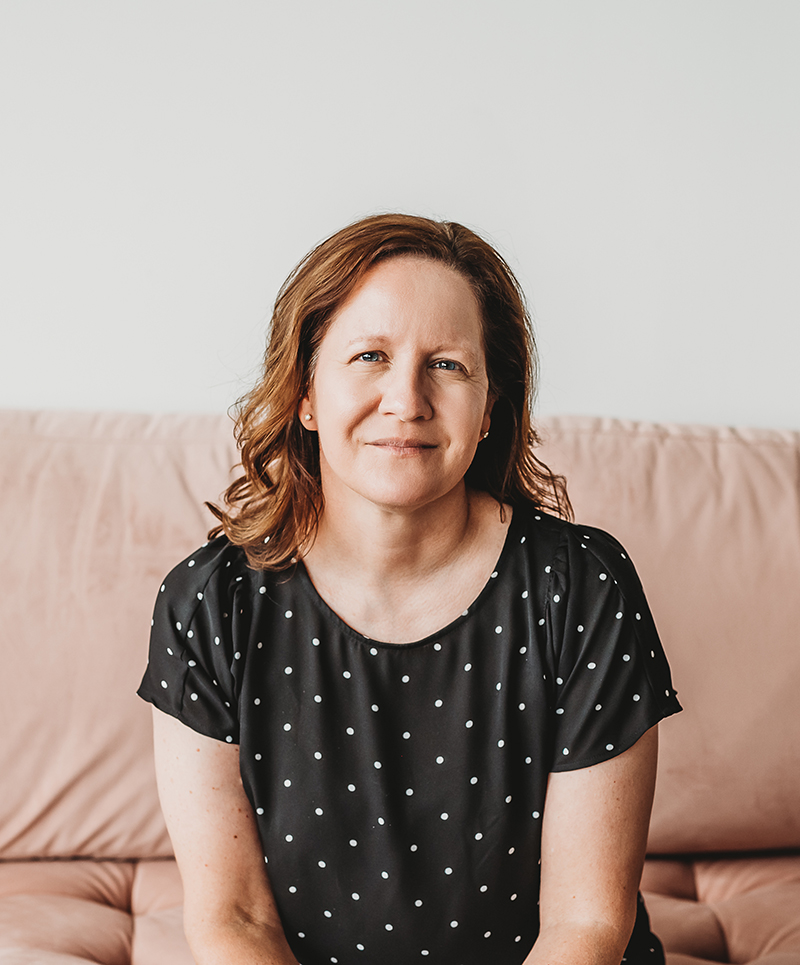
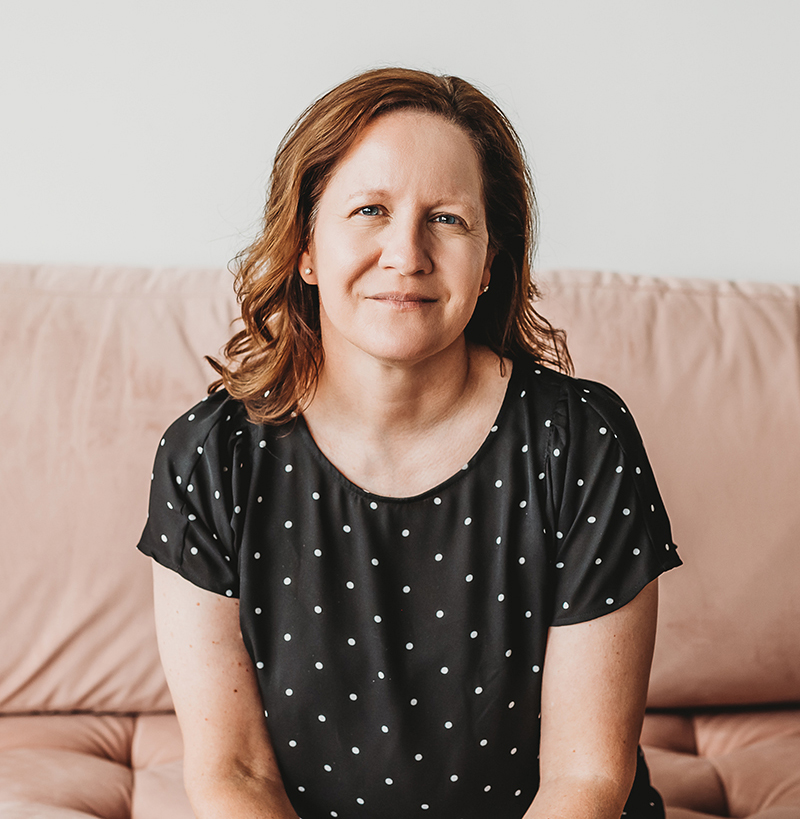
final commit

diff --git a/index.html b/index.html
@@ -57,37 +57,30 @@
     
     <header id="home-section" class="d-flex justify-content-center">
       <div class="container home-container d-flex align-items-center justify-content-center">
-        <div class="container home-inner-container d-flex align-items-center">
-          <div class="row align-items-center">
-            <div class="col-md-6 pt-4">
+        <div class="container home-inner-container d-flex align-items-center justify-content-center">
+          <div class="row d-flex align-items-center justify-content-center">
+            <div class="col align-items-center justify-content-center">
               <h1 class="">Jackie Jones</h1>
               <h4 class="">Web Developer & Designer</h4>
-              <a class="btn" href="#about-section" role="button">Learn a little more about me 
-                <i class="fa fa-arrow-circle-down mx-2"></i>
+              <a class="btn d-flex justify-content-center" href="#about-section" role="button">Learn a little more about me 
+                <i class="fa fa-arrow-circle-down mx-3 my-1"></i>
               </a>
-            </div>
-            <div class="col-md-5">
-              <img
-                  src="img/header-image2.jpg"
+              <div class="icons d-flex align-items-center justify-content-center p-5">
+                <a href="https://www.linkedin.com/in/jacqueline-jones-0881ab1a3/" target="_blank">
+                  <img
+                  src="img/linkedin-icon-brown.png"
                   alt=""
-                  class="img-fluid mb-3 thumbnail"
-                />
-            </div>
-            <div class="col-md-1 align-self-start">
-              <a href="https://www.linkedin.com/in/jacqueline-jones-0881ab1a3/" target="_blank">
-                <img
-                src="img/linkedin-icon-brown.png"
-                alt=""
-                class="img-fluid mb-3 thumbnail"
-                />
-              </a>
-              <a href="https://github.com/jackiejones3bb" target="_blank">
-                <img
-                src="img/github-icon-brown.png"
-                alt=""
-                class="img-fluid mb-3 thumbnail"
-                />
-              </a>
+                  class="img-fluid p-1 thumbnail"
+                  />
+                </a>
+                <a href="https://github.com/jackiejones3bb" target="_blank">
+                  <img
+                  src="img/github-icon-brown.png"
+                  alt=""
+                  class="img-fluid p-1 thumbnail"
+                  />
+                </a>
+              </div>
             </div>
           </div>
         </div>
@@ -102,16 +95,16 @@
           <div class="row p-5 my-2">
             <div class="col-md">
               <img
-                src="img/home-hero-image3.jpg"
+                src="img/header-image2.jpg"
                 alt=""
-                class="img-fluid mb-3 thumbnail"
+                class="img-fluid pr-2 mb-3 thumbnail"
               />
             </div>
             <div class="col-md">
               <h2>About Me</h2>
               <hr>
-              <p>
-                Hi, I'm Jackie, a web developer/designer and graphic artist with a passion for helping people. And I'm ridiculously detail-oriented. I spent the early part of my career working mainly in the realm of product packaging design before moving into a role of marketing specialist. But, after a while, I just wasn't feeling my corporate career anymore and my heart called me in a different direction. <br><br>I wanted to save the world...that's an attainable goal, right? So, I went to nursing school and spent 10+ years working as an oncology nurse alongside some of the most amazing doctors, coworkers, and patients. I learned so much and am beyond grateful for my time as an RN becasue it helped to shape the person that I am today. <br><br>I missed being a designer and the creative problem-solving that came with it. I made the decison to transition back into a design-based career, and being the perpetual learner that I am, I focused on increasing my technical skills and abilities in web development. This is a journey that quite literally come full circle for me and I'm excited to be back to doing what I love. 
+              <p class="about-text">
+                Hi, I'm Jackie, a web developer/designer and graphic artist with a passion for helping people...and I'm ridiculously detail-oriented. I spent the early part of my career working mainly in the realm of product packaging design before moving into a role as a marketing specialist. But, after a while, I just wasn't feeling my corporate career anymore and my heart called me in a different direction. <br><br>I wanted to save the world...that's an attainable goal, right? So, I went to nursing school and spent 10+ years working as an oncology nurse alongside some of the most amazing doctors, coworkers, and patients. I learned so much and am beyond grateful for my time as an RN becasue it helped to shape the person that I am today. <br><br>I missed being a designer and the creative problem-solving that came with it. I made the decison to transition back into a design-based career, and being the perpetual learner that I am, I focused on increasing my technical skills and abilities in web development. This is a journey that has quite literally come full circle for me and I'm excited to be back to doing what I love. 
               </p>
               </div>
             </div>
@@ -129,7 +122,7 @@
           <div class="col-md">
             <h2>My Skills</h2>
             <hr>
-            <p>
+            <p class="skills-text">
               As part of my never-ending journey to learn new things, I am currently enrolled in the intensive Web Development program at Eleven Fifty Academy, where I have gained experience working in HTML and CSS, as well as JavaScript, Bootstrap, and Github. Professionally, I have experience with a variety of design based programs, including Adobe Photoshop, Illustrator, InDesign, and XD. I have a strong understanding of UX/UI design concepts and a background in marketing. <br><br>
             </p>
             <a class="btn mb-3" href="img/Jacqueline Jones Resume.pdf" role="button">Download My Resume</a>
@@ -349,18 +342,11 @@
       $("body").scrollspy({ target: "#main-nav" });
 
       // Smooth Scrolling
-      $("main-nav a").on("click", function (e) {
-        if (this.hash !== "") {
-          e.preventDefault();
-
-          const hash = this.hash;
-
-          $("html, body").animate({
-              scrollTop: $(hash).offset().top,
-            }, 900, function () {
-              window.location.hash = hash;
-            });
-        }
+      $('.test, .nav-link, .navbar-brand, .new-button').click(function() {
+      var sectionTo = $(this).attr('href');
+        $('html, body').animate({
+          scrollTop: $(sectionTo).offset().top
+        }, 1200);
       });
     </script>
   </body>

diff --git a/css/style.css b/css/style.css
@@ -1,3 +1,5 @@
+
+ 
 body {
     position: relative;
     background: #f5e4e0;
@@ -64,7 +66,7 @@ hr {
 
 #home-section .btn{
     margin-top: 35px;
-    padding: 10px;
+
     color: #a88e88;
 }
 
@@ -101,6 +103,10 @@ hr {
     border-radius: 10px;
 }
 
+.about-text {
+    line-height: 180%;
+}
+
 
 
 
@@ -131,6 +137,10 @@ hr {
 
 #skills-section img {
     padding: 10px;
+}
+
+.skills-text {
+    line-height: 180%;
 }
 
 #skills-section .btn {
